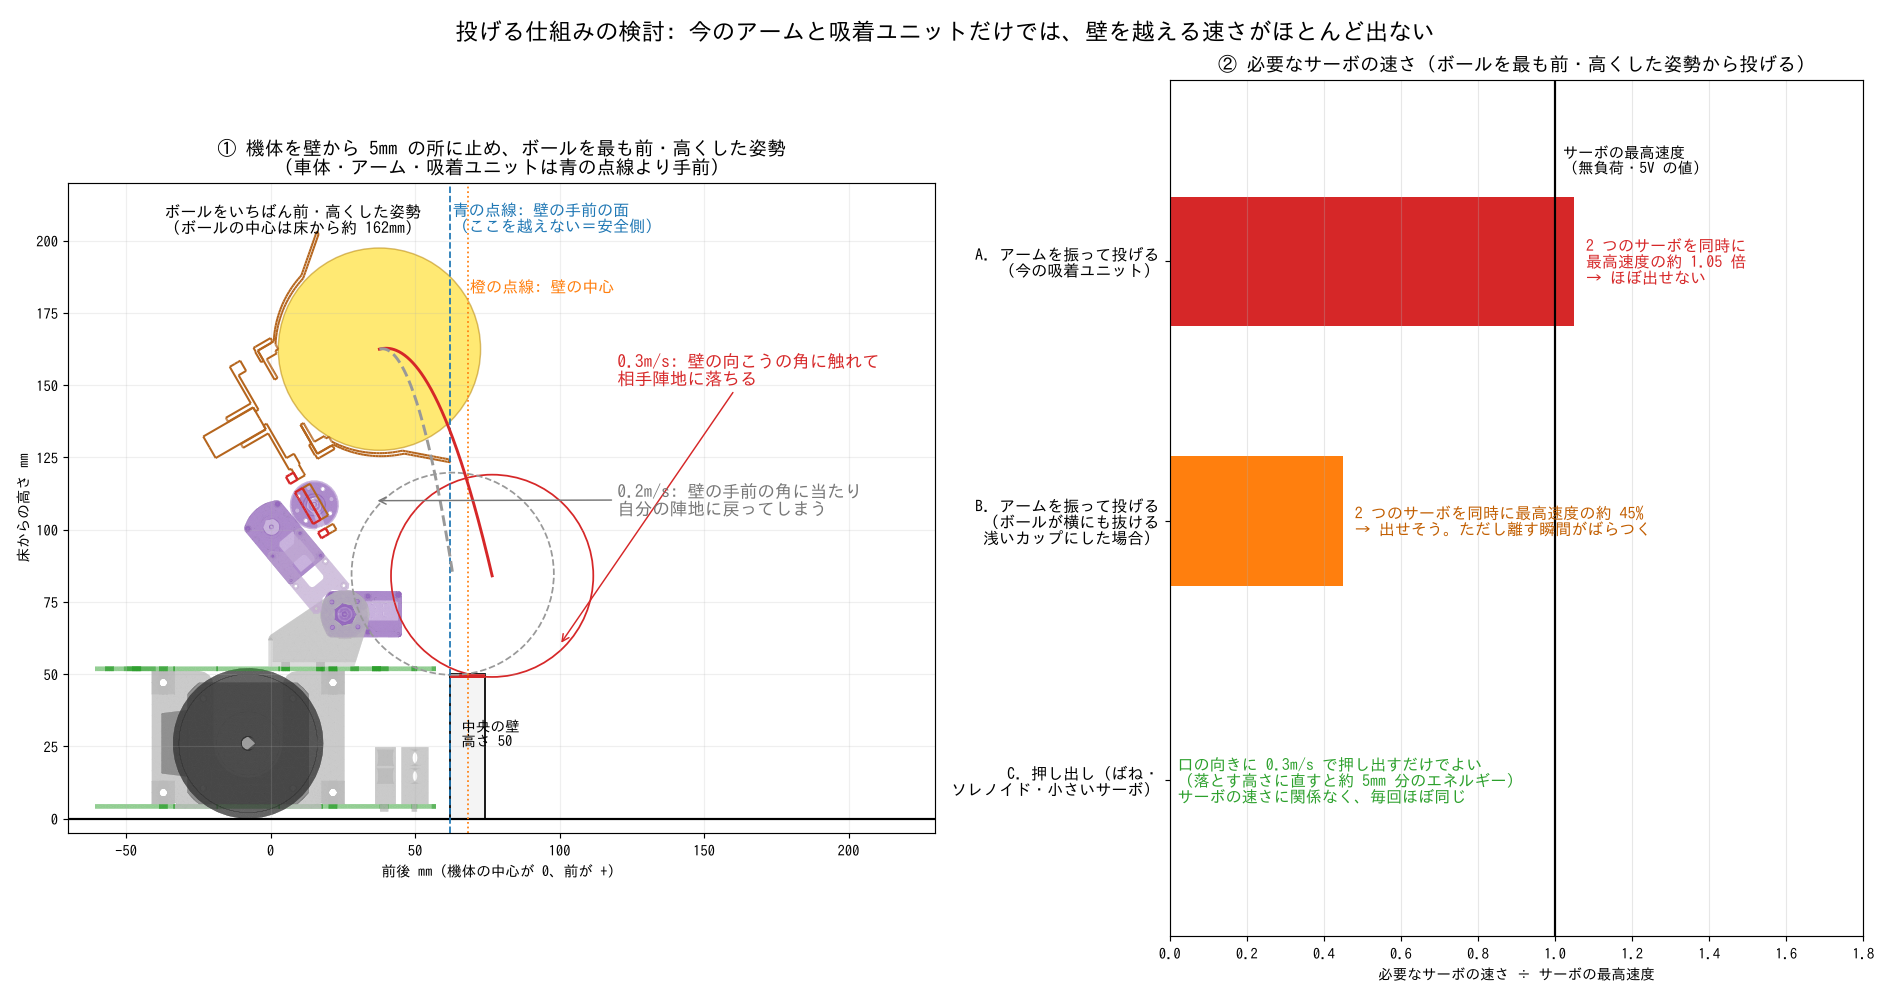
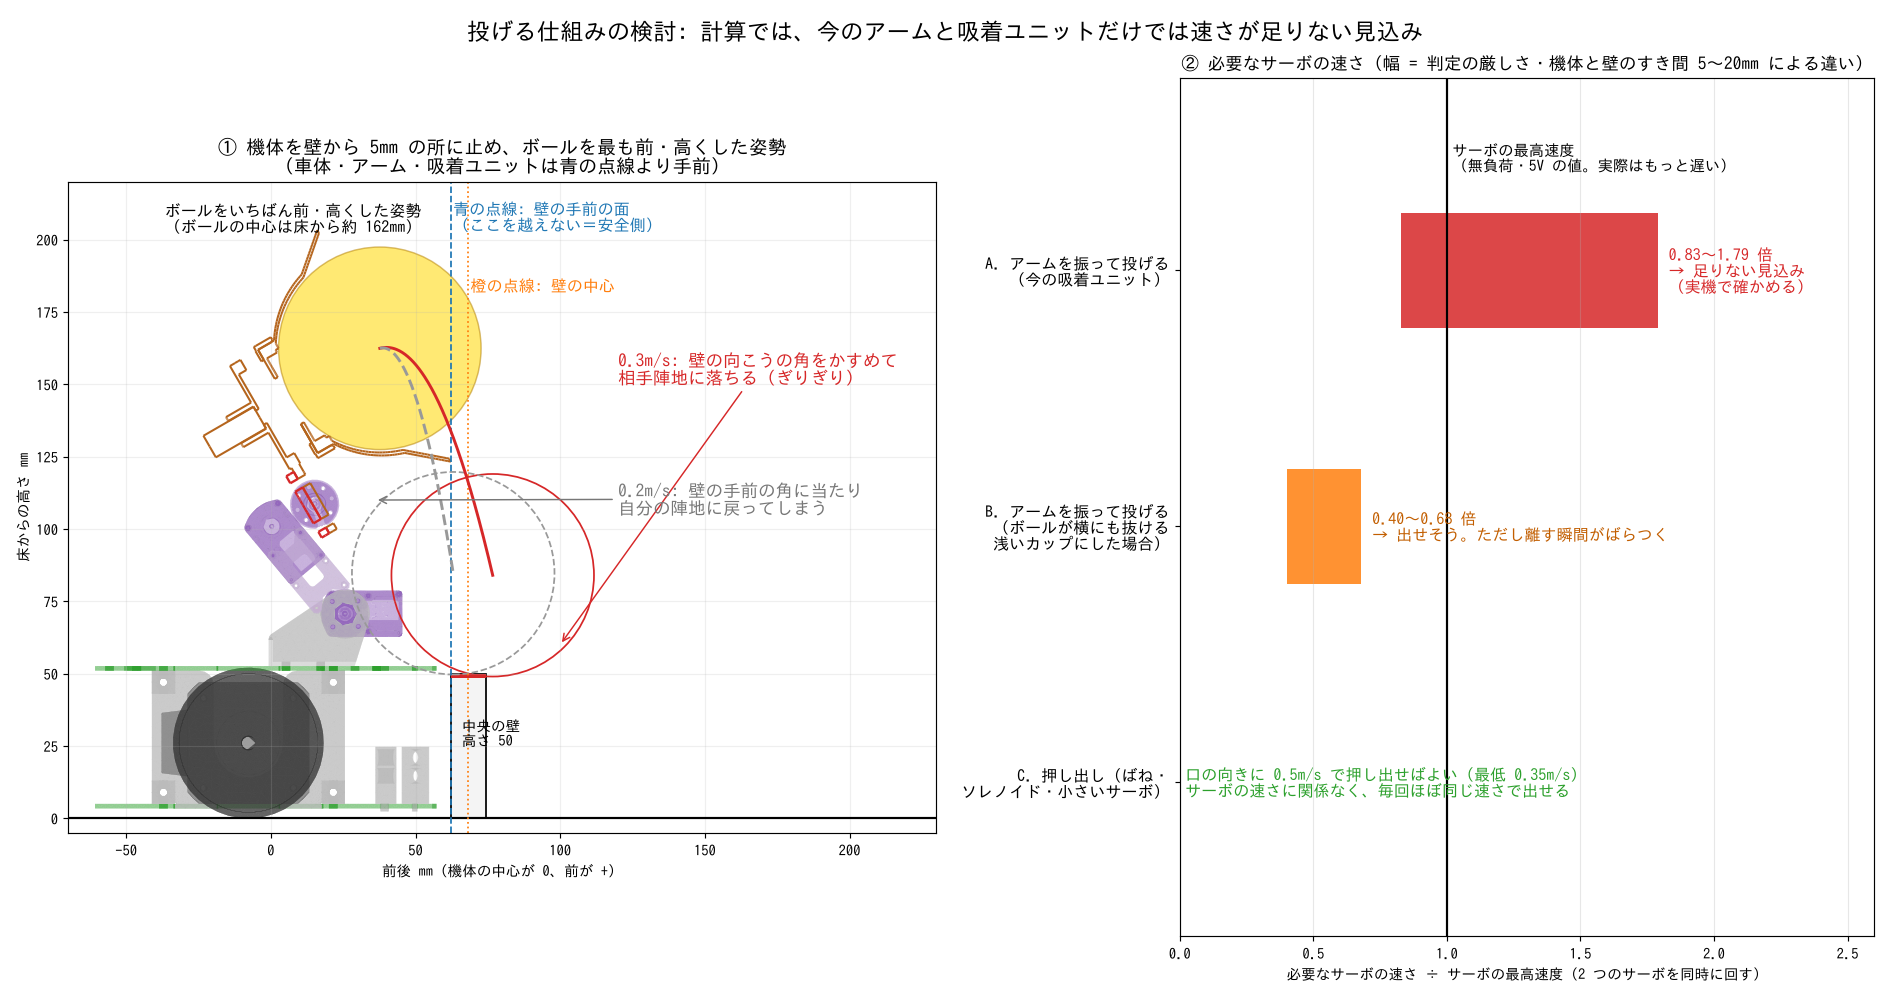
投げる検討: 必要な速さを幅で示し、実機で試す手順を分けた
Claude-Session: https://claude.ai/code/session_01H2ZvpprshQ9HuEhVGoJh3T

diff --git a/docs/design/ball-throw.md b/docs/design/ball-throw.md
@@ -6,19 +6,22 @@
 
 ## 結論
 
-- **今のアームと吸着ユニットのまま、振って投げるのはほぼ無理**。ボールを壁の向こうへ落とすには、サーボ 2 つを同時に最高速度の約 1.05 倍で回す必要がある（計算）。
-- いちばん確実なのは **C. 押し出し**。ボールを高く持ち上げてから、吸着ユニットの口の向きに **約 0.3m/s で押し出す**だけでよい。
-- まず実機で A（今のまま振る）を試し、届かなければ C を作る、という順がよい。
+- 計算では、**今のアームと吸着ユニットのまま振って投げると、速さが足りない見込み**。
+  - サーボ 2 つを同時に回して、最高速度の 0.83〜1.79 倍が必要になる。
+  - ただし、サーボの速さは他サイトの値（無負荷・5V）で、ボールが抜ける向きも推定。**計算だけでは決められない**ので、実機で確かめる。
+- いちばん確実なのは **C. 押し出し**。ボールを高く持ち上げてから、吸着ユニットの口の向きに **約 0.5m/s（最低 0.35m/s）で押し出す**だけでよい。
+- 進め方: まず実機で今のまま試す。届かなければ C を作る。
 
 ## 考えた条件
 
 | 項目 | 値 | 出典 |
 | --- | --- | --- |
-| 機体の位置 | 中央の壁の正面に、壁から 5mm 離して止まる（機体の前の端 y=57.2mm） | — |
+| 機体の位置 | 中央の壁の正面に、壁から 5〜20mm 離して止まる（機体の前の端 y=57.2mm） | — |
 | 壁 | 高さ 50mm、厚さ 12mm | 規程 2-2 |
-| 越えてはいけない線 | **車体・アーム・吸着ユニットは壁の手前の面より手前**（安全側）。壁の中心までの場合も計算した | 規程 1-5 |
+| 越えてはいけない線 | **車体・アーム・吸着ユニットは壁の手前の面より手前**（余裕 1mm）。壁の中心までの場合も計算した | 規程 1-5 |
 | 持っているボール | ボールの一部は壁の手前の面より前に出てもよいとした（ボールは機体ではないため）。**要確認** | — |
-| 成功の判定 | ボールが最初に壁に触れたとき、ボールの中心が壁の向こう側の面より先にあれば成功（相手陣地へ落ちる） | 規程 4-12 |
+| 成功の判定（ゆるい） | ボールが最初に壁に触れたとき、ボールの中心が壁の向こう側の面より先にあれば成功（相手陣地へ落ちる） | 規程 4-12 |
+| 成功の判定（厳しい） | ボールが壁に触れずに（3mm 以上離れて）越える | — |
 | サーボ（RS204MD）の最高速度 | 0.19 秒 / 60°（5V・無負荷）。実際は負荷があるのでこれより遅い | [servodatabase](https://servodatabase.com/servo/futaba/rs204md) |
 | 機体の形 | 全体 v11 の STEP、取り付け金具、吸着ユニット（スカート付き） | — |
 
@@ -28,40 +31,49 @@
 
 ### 1. いちばん有利な姿勢
 
-- 腕を後ろへ大きく上げ（約 130°）、口を前やや上に向けた姿勢で、ボールの中心が最も前・高くなる。
-  - 床からの高さ 約 162mm。
-  - 前後の位置は機体の中心から 38mm。ボールの前の端は壁の手前の面より 10mm 前に出る。
-- この姿勢から、前へ **0.3m/s** で出せば壁を越える。0.2m/s では壁の手前の角に当たって、自分の陣地に戻る（図の左）。
-- アームを壁の上（中心まで）出してよい場合でも、必要な速さは 0.3m/s のままで、ほとんど変わらない。
+- 腕を後ろへ大きく上げ（CAD 上で約 130°）、口を前やや上に向けた姿勢で、ボールの中心が最も前・高くなる。
+  - ボールの中心は床から約 160mm、機体の中心から前へ 38mm。
+  - ボールの前の端は、壁の手前の面より 10mm 前に出る。
+- この姿勢から前へ出す速さ:
+  - 0.3m/s: 壁の向こうの角をかすめて、相手陣地に落ちる（ぎりぎり）。
+  - 0.2m/s: 壁の手前の角に当たって、自分の陣地に戻る（図の左）。
 
-### 2. 今の吸着ユニットでは、ボールは口の向きにしか抜けない
+| 必要な速さ（口の向きに押し出す場合） | すき間 5mm | 10mm | 20mm |
+| --- | --- | --- | --- |
+| ゆるい判定（壁をかすめてもよい） | 0.35m/s | 0.33m/s | 0.23m/s |
+| 厳しい判定（壁に触れない） | 0.53m/s | 0.50m/s | 0.45m/s |
+
+機体を壁から少し離した方が、アームを前に出せる分だけ少し有利になる。押し出す機構は、厳しい判定の **0.5m/s を目標**にする。必要なエネルギーは約 2.4mJ（ボールを 13mm 落とした分）で、とても小さい。
+
+### 2. 今の吸着ユニットでは、ボールは口の向きにしか抜けない（推定）
 
 - 吸着ユニットのコーンは、ボールの上半分をすき間 1〜2mm で包んでいる。
-- そのため、ボールが抜けられるのは**口の向きから ±15° くらいまで**。
-- 一方、アームを振ったときのボールの動く向きは、腕の回り方で決まる。口の向きと揃えて、しかも 0.3m/s を出すには、サーボ 2 つを互いに逆向きに回すことになり、速さが打ち消し合う。
-- 結果として、**最高速度の約 1.05 倍が必要**になる（図の右 A）。
+- 形から考えると、ボールが抜けられるのは**口の向きから ±15° くらいまで**。
+- 一方、アームを振ったときにボールが動く向きは、腕の回り方で決まる。口の向きに揃えて速さも出すには、2 つのサーボを互いに逆向きに回すことになり、速さが打ち消し合う。
 
 ### 3. 方法の比べ
 
-| 方法 | 必要なもの | 良い点 | 心配な点 |
+| 方法 | 必要な速さ（最高速度に対して） | 必要なもの | 心配な点 |
 | --- | --- | --- | --- |
-| A. 今のまま振って投げる | なし（`config.h` の `ARM_THROW_*` を変えるだけ） | 部品が増えない | 計算では速さが足りない。離す瞬間（吸引が切れる時間）がばらつく |
-| B. 浅いカップに変えて振る | 吸着ユニットのコーンを浅くする | 必要な速さが最高速度の約 45% に下がる | つかむ力が弱くなるかもしれない。離す瞬間がばらつくのは A と同じ |
-| C. 押し出す | 吸着ユニットに小さな押し出し機構（ばね＋ラッチ、ソレノイド、小さいサーボのどれか） | 速さがサーボに関係なく毎回同じ。必要なエネルギーはとても小さい（5mm 落とした分） | 部品と重さが増える。吸着ユニットの軸にはモーターがあるので、押す棒は横から入れる必要がある |
+| A. 今のまま振って投げる | 0.83〜1.79 倍 | なし。ただしファンを切る手順を足すと、ファームウェアを少し変える | 速さが足りない見込み。吸引が切れる時間がばらつく |
+| B. 浅いカップに変えて振る | 0.40〜0.68 倍 | 吸着ユニットのコーンを浅くする | つかむ力が弱くなるかもしれない。離す瞬間がばらつくのは A と同じ |
+| C. 押し出す | サーボの速さは関係ない（0.5m/s を出す機構） | 吸着ユニットに小さな押し出し機構（ばね＋ラッチ、ソレノイド、小さいサーボのどれか） | 部品と重さが増える。吸着ユニットの軸にはモーターがあるので、押す棒は横から入れる必要がある |
 
 関西大会の優勝チームも、吸引でつかみ、ばねで打ち出していた（[ルールまとめ](../rules/robosweep-rules.md)）。
 
 ## 次にやること
 
-1. **実機で A を試す**（部品を作らずにできる）
-   - 機体を壁の正面、5mm の所に置く。
-   - 図の姿勢（腕を後ろへ上げ、口を前やや上）にしてから、2 つのサーボを最速で前へ振り、止める少し前にファンを切る。
-   - スマホのスロー動画で、ボールが壁を越えるか、離れたときの速さ（1 コマで何 mm 進むか）を見る。
-2. **サーボの角度と指令値の対応を測る**
-   - 図の角度は CAD 上の角度で、`config.h` の値（0.1° 単位）の 0° がどこかはまだ分からない。
-   - 腕を水平にしたときの指令値などを記録する。
-3. A で届かなければ **C の押し出し機構を設計する**。
-4. 大会に確認する
+1. **今のリモコン機で、L ボタンの「投げる」が高さ 5cm の壁を越えるか試す**（もう試していれば、その結果がいちばん確か）
+2. **姿勢を変えて試す**
+   - 機体を壁の正面に、5〜20mm 離して置く。
+   - 腕を後ろへ上げ、口を前やや上に向けてから、2 つのサーボを最速で前へ振る。
+   - 今の `SEQ_THROW`（`app_arm.c`）は投げる間もファンが回ったまま。ファンを切ってボールを離す手順（`ACT_FAN 0`）を入れたものも試す。これはファームウェアの小さな変更。
+   - スマホのスロー動画で、ボールが壁を越えるかと、離れたときの速さ（1 コマで何 mm 進むか）を見る。
+3. **サーボの角度と指令値の対応を測る**
+   - 図の角度は CAD 上の角度で、`config.h` の値（0.1° 単位）とどう対応するかはまだ分からない。
+   - 手がかり（仮説）: `ARM_CATCH_LOWER`（150°）と `ARM_THROW_READY_LOWER`（45°）の差は 105°。CAD でつかむ姿勢から図の姿勢までの腕の差は 105.5° で、ほぼ同じ。今の「構える」姿勢の腕は、図の姿勢に近いのかもしれない。ただし、この値は前の吸着ユニットに合わせたもの。
+4. 届かなければ **C の押し出し機構を設計する**。
+5. 大会に確認する
    - 投げる前に、持っているボールの一部が壁の手前の面より前に出てもよいか。
    - アームはどこまで壁の上に出してよいか。
 
@@ -70,7 +82,7 @@
 - ボールがフィールドの外へ出ると負けになることがある（規程 4-12）。
 - 外周の壁の近くでは投げない。中央の壁に真っすぐ向いてから投げる。
 
-## 計算に使ったもの
+## 計算のしかた
 
 - 当たりの判定: 全体 v11 の STEP を三角形にし、部品ごとの凸包に、吸着ユニット・金具・ボールの表面の点が入るかどうかで調べた（余裕 1mm）。
 - ボールの飛び方: 放物運動。空気の抵抗は無視した（19g・Φ70 のボールを 0.5m/s で飛ばしても、抵抗は重さの 1% 以下）。
